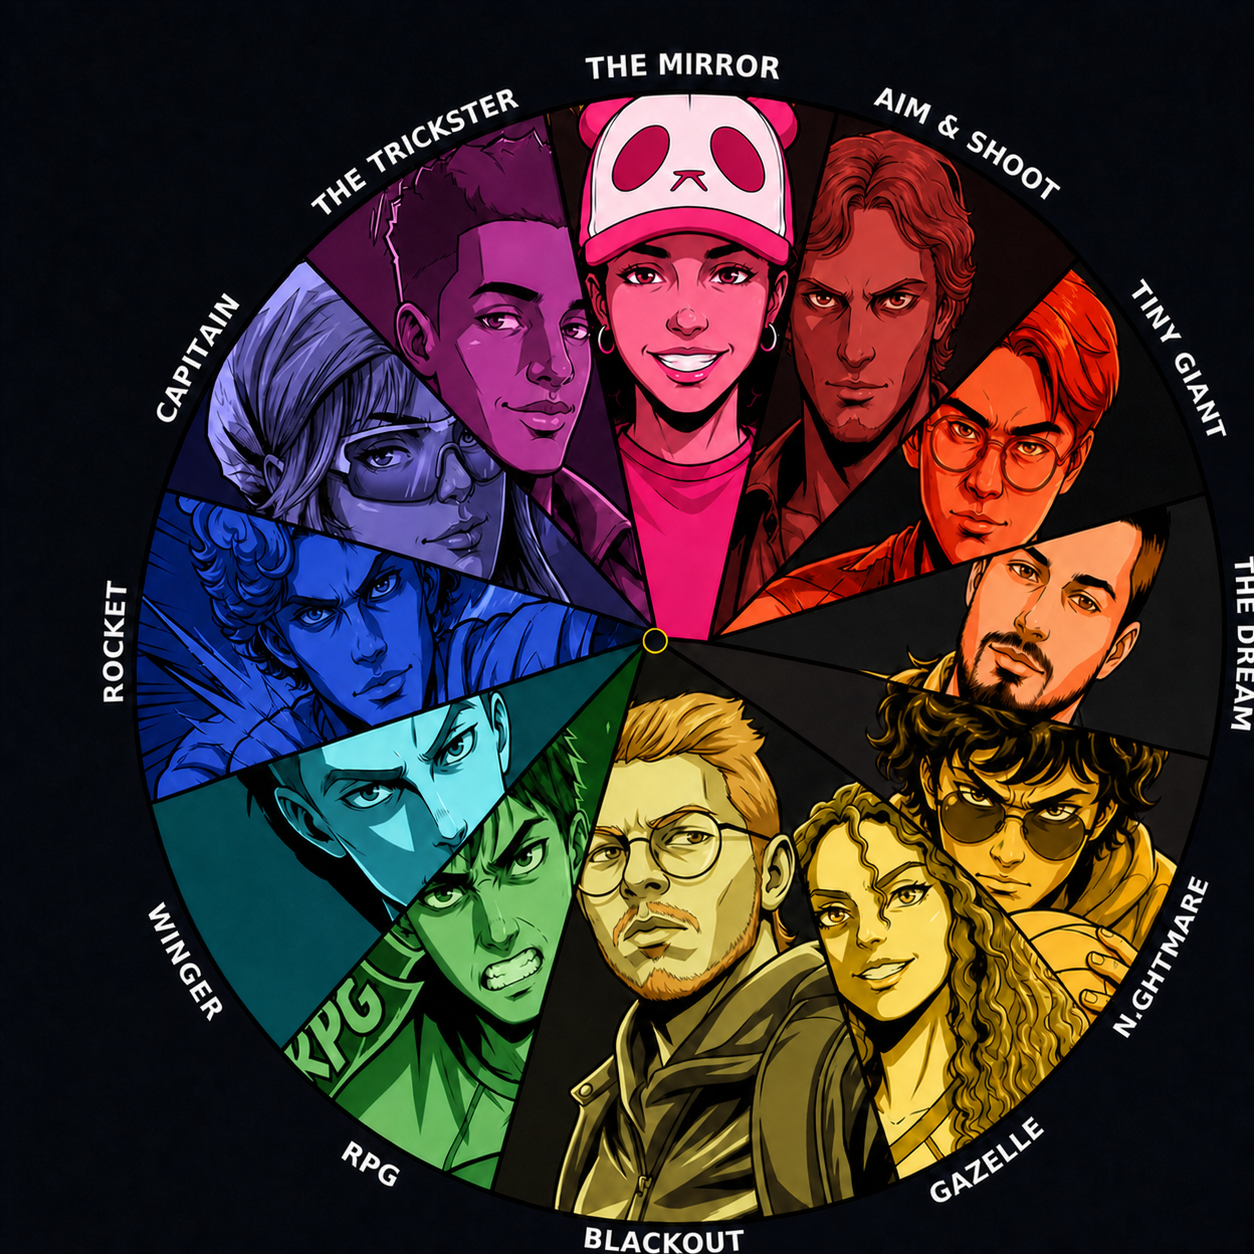
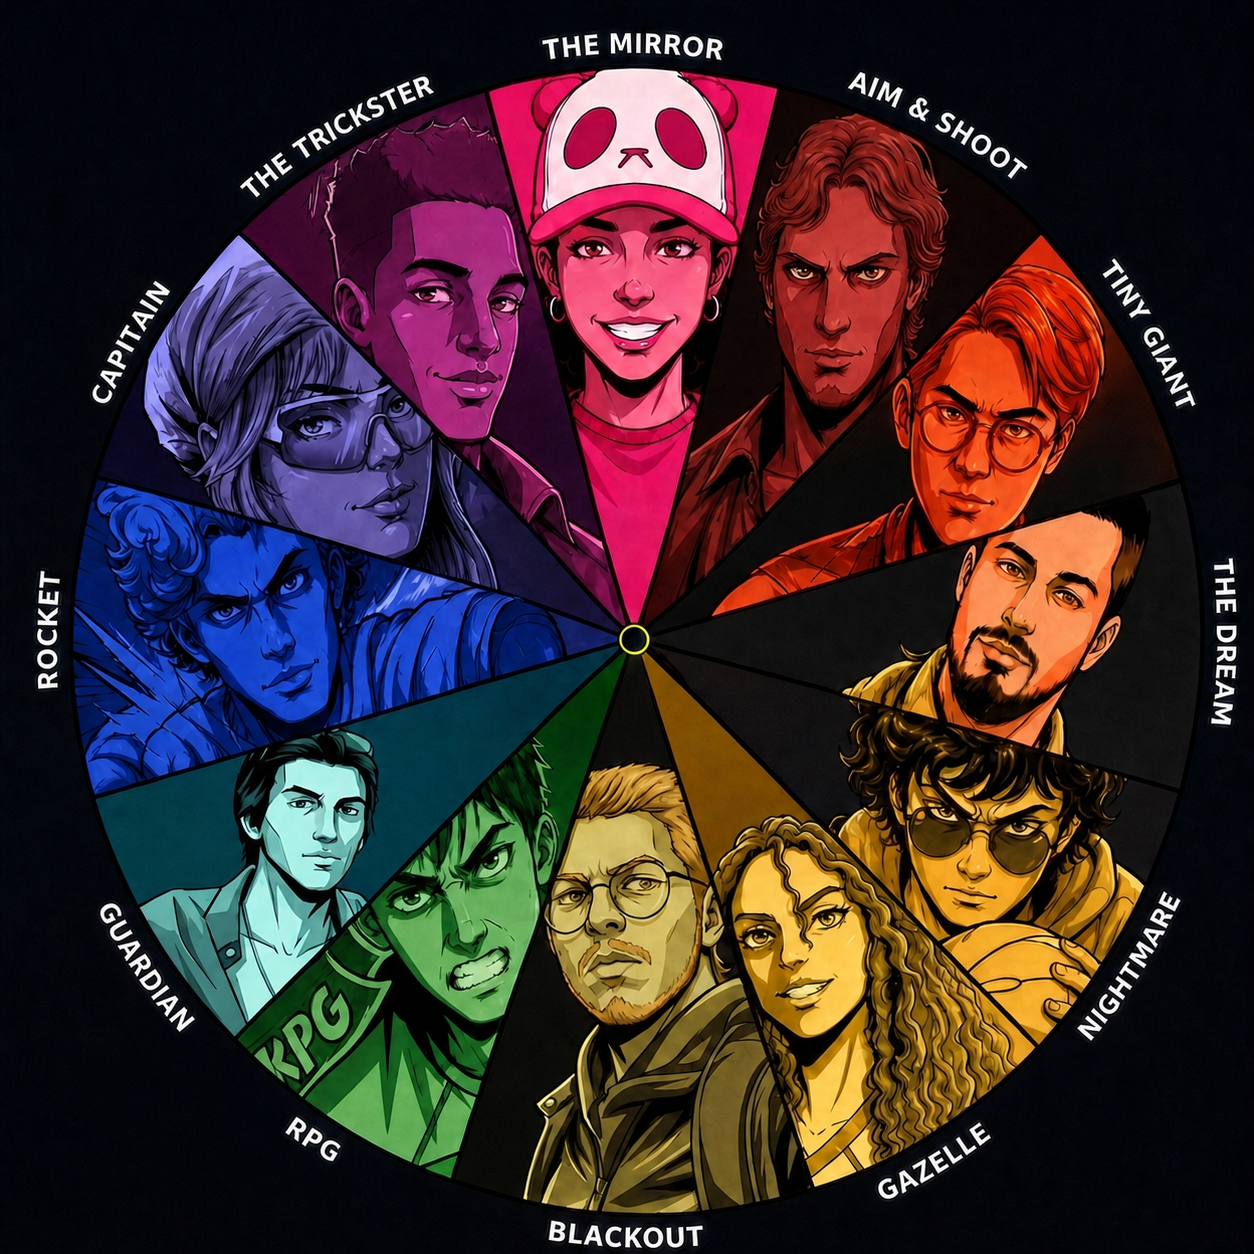
UI update

diff --git a/index.html b/index.html
@@ -1,10 +1,10 @@
 <!doctype html><html lang="en"><head><meta charset="utf-8"><meta name="viewport" content="width=device-width,initial-scale=1"><title>The Gomi Cup</title><link rel="stylesheet" href="./css/style.css"></head><body><main class="container" id="app"><div style="text-align:center;padding:80px;color:#94a3b8">Loading The Gomi Cup…</div></main><script type="module">
 import {watchAuth,renderAuthBadge} from './js/auth.js';
-const $=x=>document.getElementById(x);const app=$('app');
-const club={strigidae:{name:'Strigidae',emoji:'🦉',logo:'./assets/strigidae.png'},otters:{name:'Kòrsou Otters',emoji:'🦦',logo:'./assets/otters.png'},shizuka:{name:'Shizuka',emoji:'☁️',logo:'./assets/shizuka.png'}};
-const link=(url,icon,title,text)=>`<a class="hub-link" href="${url}"><div style="font-size:1.5rem">${icon}</div><b>${title}</b><span>${text}</span></a>`;
-const section=(id,title,desc,items)=>`<section class="hub-section" id="${id}"><div class="hub-section-head"><h2>${title}</h2><p>${desc}</p></div><div class="hub-grid">${items}</div></section>`;
+const app=document.getElementById('app');const club={strigidae:{name:'Strigidae',emoji:'🦉',logo:'./assets/strigidae.png'},otters:{name:'Kòrsou Otters',emoji:'🦦',logo:'./assets/otters.png'},shizuka:{name:'Shizuka',emoji:'☁️',logo:'./assets/shizuka.png'}};
+const link=(url,icon,title,text)=>`<a class="hub-link" href="${url}"><div style="font-size:1.5rem">${icon}</div><b>${title}</b><span>${text}</span></a>`;let profile=null,activeTab=null;
+function cardsFor(tab){const pending=profile.status==='pending';const groups={play:[link('./team-builder.html','✨','Dream Team','Build and save your perfect team.'),link('./match-sim.html','🎮','2D Match Sim','Play through a match in the tactical court view.'),link('./match-sim-3d.html','🕹️','3D Match Sim','Watch your match in the arena.'),...(pending?[]:[link('./draft.html','🎯','Live Draft','Join an active draft room.')])],players:[link('./cards.html','🃏','Player Cards','Trading cards, reveals, and rosters.'),link('./player-stats.html','🌟','Player Stats','Compare ratings, positions, and performance.')],lab:[link('./chemistry.html','💚','Chemistry','See which players build bonds together.'),link('./synergies.html','⚡','Synergies','Discover named team-ups and power-ups.')],league:[link('./standings.html','📊','Standings','League table and results.'),link('./clubs.html','🛡️','Club Hub','Meet the three clubs.'),link('./league.html','📖','League History','The story behind the Gomi Cup.')],extras:[link('./photos.html','📸','Photos','League gallery.'),link('./onboarding.html?replay=1','❔','How to Play','Replay the introduction.'),...(profile.role==='commissioner'?[link('./admin.html','👑','Commissioner Panel','Approve members and manage the league.')]:[])]};return groups[tab]||[]}
+function showTab(tab){activeTab=tab;const names={play:['🎮 Play','Build a squad, then take it onto the court.'],players:['👥 Players','Meet the people behind the Gomi Cup.'],lab:['🧪 Team Lab','Find combinations that make teams dangerous.'],league:['🏆 League','Follow the competition and its clubs.'],extras:['📸 Extras','More Gomi Cup content.']};const [title,desc]=names[tab];document.getElementById('hub-content').innerHTML=`<section class="hub-section"><div class="hub-section-head"><h2>${title}</h2><p>${desc}</p></div><div class="hub-grid">${cardsFor(tab).join('')}</div></section>`;document.querySelectorAll('.hub-nav button').forEach(b=>b.classList.toggle('active',b.dataset.tab===tab))}
+function dashboard(p){profile=p;document.body.style.padding='20px';const c=club[p.favoriteClub]||{name:'The Gomi Cup',emoji:'🏐',logo:'./assets/volleyball.png'};const pending=p.status==='pending';app.className=`container club-theme-${p.favoriteClub||''}`;app.innerHTML=`<div id="auth-strip" style="text-align:right;margin-bottom:8px"></div><header style="text-align:center;padding:12px 0 18px"><img src="${c.logo}" alt="" style="height:62px;width:62px;object-fit:contain"><h1>${c.emoji} ${pending?'WELCOME TO':'MY'} ${c.name.toUpperCase()}</h1><p class="tagline">Choose an area to begin your Gomi Cup journey.</p></header><nav class="hub-nav"><button data-tab="play">🎮 Play</button><button data-tab="players">👥 Players</button><button data-tab="lab">🧪 Team Lab</button><button data-tab="league">🏆 League</button><button data-tab="extras">📸 Extras</button></nav>${pending?'<div class="pending-banner"><strong>⏳ Membership pending</strong><br>Each time you log in, you will get the quick guide until a commissioner approves your account.</div>':''}<div id="hub-content"><div class="hub-empty"><div class="hub-empty-icon">🏐</div><h2>Where do you want to go?</h2><p>Choose a category above to open its Gomi Cup tools.</p></div></div>`;renderAuthBadge(document.getElementById('auth-strip'),p);document.querySelectorAll('.hub-nav button').forEach(b=>b.onclick=()=>showTab(b.dataset.tab))}
 function landing(){document.body.style.padding='0';app.className='retro-start';app.innerHTML=`<div class="retro-corner">The Gomi Cup · 2026</div><img class="retro-start-art" src="./assets/onboarding/gomi-roster.png" alt="Gomi Cup players"><button class="retro-start-button" onclick="location.href='./login.html'">▶ Press to start your adventure</button>`}
-function dashboard(p){document.body.style.padding='20px';const c=club[p.favoriteClub]||{name:'The Gomi Cup',emoji:'🏐',logo:'./assets/volleyball.png'};const pending=p.status==='pending';app.className=`container club-theme-${p.favoriteClub||''}`;app.innerHTML=`<div id="auth-strip" style="text-align:right;margin-bottom:8px"></div><header style="text-align:center;padding:12px 0 18px"><img src="${c.logo}" alt="" style="height:62px;width:62px;object-fit:contain"><h1>${c.emoji} ${pending?'WELCOME TO':'MY'} ${c.name.toUpperCase()}</h1><p class="tagline">${pending?'Explore the Gomi Cup while your membership is reviewed.':'Your Gomi Cup home base.'}</p></header><nav class="hub-nav"><a href="#play">🎮 Play</a><a href="#players">👥 Players</a><a href="#lab">🧪 Team Lab</a><a href="#league">🏆 League</a><a href="#extras">📸 Extras</a></nav>${pending?'<div class="pending-banner"><strong>⏳ Membership pending</strong><br>Each time you log in, you will get the quick guide until a commissioner approves your account.</div>':''}${section('play','🎮 Play','Build a squad, then take it onto the court.',[link('./team-builder.html','✨','Dream Team','Build and save your perfect team.'),link('./match-sim.html','🎮','2D Match Sim','Play through a match in the tactical court view.'),link('./match-sim-3d.html','🕹️','3D Match Sim','Watch your match in the arena.'),!pending?link('./draft.html','🎯','Live Draft','Join an active draft room.'):'' ])}${section('players','👥 Players','Everything about the people in the Gomi Cup.',[link('./cards.html','🃏','Player Cards','Trading cards, reveals, and rosters.'),link('./player-stats.html','🌟','Player Stats','Compare ratings, positions, and performance.')])}${section('lab','🧪 Team Lab','Find the combinations that make teams dangerous.',[link('./chemistry.html','💚','Chemistry','See which players build bonds together.'),link('./synergies.html','⚡','Synergies','Discover named team-ups and power-ups.')])}${section('league','🏆 League','Follow the competition and the clubs.',[link('./standings.html','📊','Standings','League table and results.'),link('./clubs.html','🛡️','Club Hub','Meet Strigidae, Kòrsou Otters, and Shizuka.'),link('./league.html','📖','League History','The story behind the Gomi Cup.')])}${section('extras','📸 Extras','More Gomi Cup content.',[link('./photos.html','📸','Photos','League gallery.'),link('./onboarding.html?replay=1','❔','How to Play','Replay the introduction and review clubs.'),p.role==='commissioner'?link('./admin.html','👑','Commissioner Panel','Approve members and manage the league.'):'' ])}`;renderAuthBadge($('auth-strip'),p)}
 watchAuth(s=>{if(!s){landing();return}if(s.profile.status==='pending'||!s.profile.onboardingComplete){location.replace('./onboarding.html');return}dashboard(s.profile)});
 </script></body></html>

diff --git a/css/style.css b/css/style.css
@@ -610,3 +610,4 @@ textarea { width:100%; padding:10px 12px; background:#0f172a; border:1px solid #
 /* ===== Gomi Cup navigation refresh ===== */
 .retro-start-button:hover { transform:translateX(-50%) !important; box-shadow:none !important; }
 .hub-nav{display:flex;justify-content:center;gap:8px;flex-wrap:wrap;margin:0 0 20px}.hub-nav a{color:#cbd5e1;text-decoration:none;padding:8px 13px;border:1px solid #334155;background:rgba(15,23,42,.72);border-radius:999px;font-size:.82rem;font-weight:700}.hub-nav a:hover{border-color:#fbbf24;color:#fbbf24}.hub-section{margin:20px 0 28px}.hub-section-head{display:flex;justify-content:space-between;align-items:end;border-bottom:1px solid #334155;padding-bottom:9px;margin-bottom:12px}.hub-section-head h2{margin:0;color:#fff}.hub-section-head p{margin:0;color:#94a3b8;font-size:.84rem}.hub-grid{display:grid;grid-template-columns:repeat(auto-fit,minmax(190px,1fr));gap:12px}.hub-link{display:block;text-decoration:none;color:#e2e8f0;padding:17px;border-radius:12px;border:1px solid #334155;background:linear-gradient(135deg,rgba(30,41,59,.88),rgba(15,23,42,.88));transition:.16s}.hub-link:hover{transform:translateY(-3px);border-color:var(--club,#fbbf24);box-shadow:0 10px 25px rgba(0,0,0,.25)}.hub-link b{display:block;color:#fbbf24;margin:7px 0 4px}.hub-link span{display:block;color:#94a3b8;font-size:.82rem;line-height:1.35}.club-choice{min-height:620px;display:flex;border-radius:20px;overflow:hidden;border:1px solid #334155;background:#030712}.club-choice-panel{flex:1;position:relative;overflow:hidden;display:flex;align-items:flex-end;justify-content:center;min-width:0;cursor:pointer;transition:flex .55s cubic-bezier(.2,.8,.2,1),filter .3s}.club-choice-panel:hover,.club-choice-panel.focused{flex:1.65}.club-choice-panel:not(:hover){filter:saturate(.75)}.club-choice-panel::before{content:'';position:absolute;inset:0;background:linear-gradient(0deg,rgba(2,6,23,.96),rgba(2,6,23,.1) 70%)}.club-choice-panel.strigidae{background:linear-gradient(115deg,#11090a,#dc2626)}.club-choice-panel.otters{background:linear-gradient(115deg,#07100a,#16a34a)}.club-choice-panel.shizuka{background:linear-gradient(115deg,#07101c,#2563eb)}.club-choice-content{position:relative;z-index:1;text-align:center;padding:28px 16px;width:100%;transform:translateY(48px);transition:transform .4s}.club-choice-panel:hover .club-choice-content,.club-choice-panel.focused .club-choice-content{transform:translateY(0)}.club-choice-logo{width:min(190px,80%);height:190px;object-fit:contain;filter:drop-shadow(0 15px 18px rgba(0,0,0,.5));transition:transform .45s}.club-choice-panel:hover .club-choice-logo,.club-choice-panel.focused .club-choice-logo{transform:scale(1.12)}.club-choice-name{font-size:clamp(1.1rem,2.3vw,2rem);font-weight:900;letter-spacing:1px}.club-choice-info{max-height:0;opacity:0;overflow:hidden;transition:.35s}.club-choice-panel:hover .club-choice-info,.club-choice-panel.focused .club-choice-info{max-height:180px;opacity:1}.club-choice-info p{color:#e2e8f0;line-height:1.45;font-size:.88rem;margin:10px auto;max-width:300px}.club-choice-info strong{color:#fbbf24;font-size:.78rem;letter-spacing:1px;text-transform:uppercase}@media(max-width:720px){.club-choice{min-height:660px;flex-direction:column}.club-choice-panel{min-height:160px}.club-choice-panel:hover,.club-choice-panel.focused{flex:2}.club-choice-logo{width:110px;height:100px}.club-choice-content{display:grid;grid-template-columns:115px 1fr;align-items:center;text-align:left;transform:none;padding:14px}.club-choice-info{max-height:150px;opacity:1}.club-choice-info p{margin:5px 0}.hub-section-head{align-items:start;flex-direction:column;gap:4px}}
+.hub-nav button{color:#cbd5e1;padding:8px 13px;border:1px solid #334155;background:rgba(15,23,42,.72);border-radius:999px;font-size:.82rem;font-weight:700;cursor:pointer}.hub-nav button:hover,.hub-nav button.active{border-color:#fbbf24;color:#0f172a;background:#fbbf24;transform:none;box-shadow:none}.hub-empty{text-align:center;padding:74px 20px;color:#64748b}.hub-empty .hub-empty-icon{font-size:3.5rem;margin-bottom:10px;opacity:.8}.hub-empty h2{color:#e2e8f0;margin-bottom:8px}